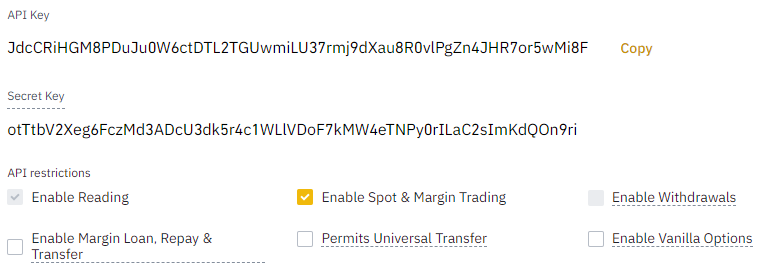
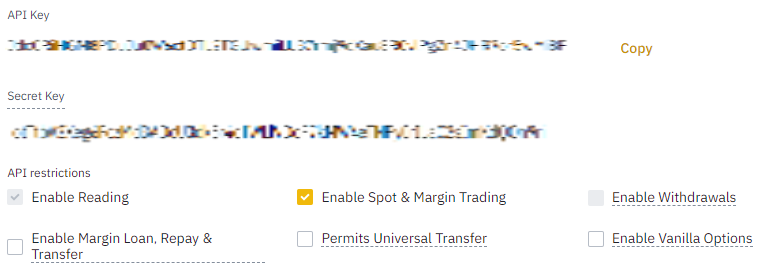
docs(exchange): add ftx apikey docs

Changed region(s): [[0.0, 0.4348, 0.7566, 0.5217], [0.0, 0.1449, 0.7868, 0.2029]]

diff --git a/docs/exchange/ftx.md b/docs/exchange/ftx.md
@@ -1,0 +1,24 @@
+---
+sidebar_position: 3
+---
+
+# FTX API Key
+
+export const ImageWrapper = ({ children }) => (
+<div className="image-wrapper">
+{children}
+</div>
+);
+
+You can very easily add your FTX API key by following the below steps:
+
+1. Go to FTX and navigate to **Profile > Settings > Api**
+2. Click on "CREATE API KEY".
+
+<ImageWrapper>
+    <img src={require('/img/tutorial/ftx-apikey-1.png').default} alt="FTX apikey" />
+</ImageWrapper>
+
+3. Copy and past the public and secret key into [Bitexbot API Key form](/get-started/apikey-guide.md#connect-bitexbot-to-your-exchange).
+
+In case you face any issues, please feel free to reach out to support@bitexbot.org

diff --git a/docs/intro.md b/docs/intro.md
@@ -19,13 +19,13 @@ Below are some of the exchanges we currently support along with short tutorials 
 
 **Spot**
 - [Binance](/exchange/binance)
-- FTX
+- [FTX](/exchange/ftx)
 
 **Perpetual or Quarterly Futures**
 - [Binance Futures USDⓈ-M](/exchange/binance)
 - [Binance Futures COIN-M](/exchange/binance)
 - [Bybit](/exchange/bybit)
-- FTX
+- [FTX](/exchange/ftx)
 
 We are working hard on adding other exchanges soon. Potential exchanges we are looking to integrate are:
 - Coinbase PRO
